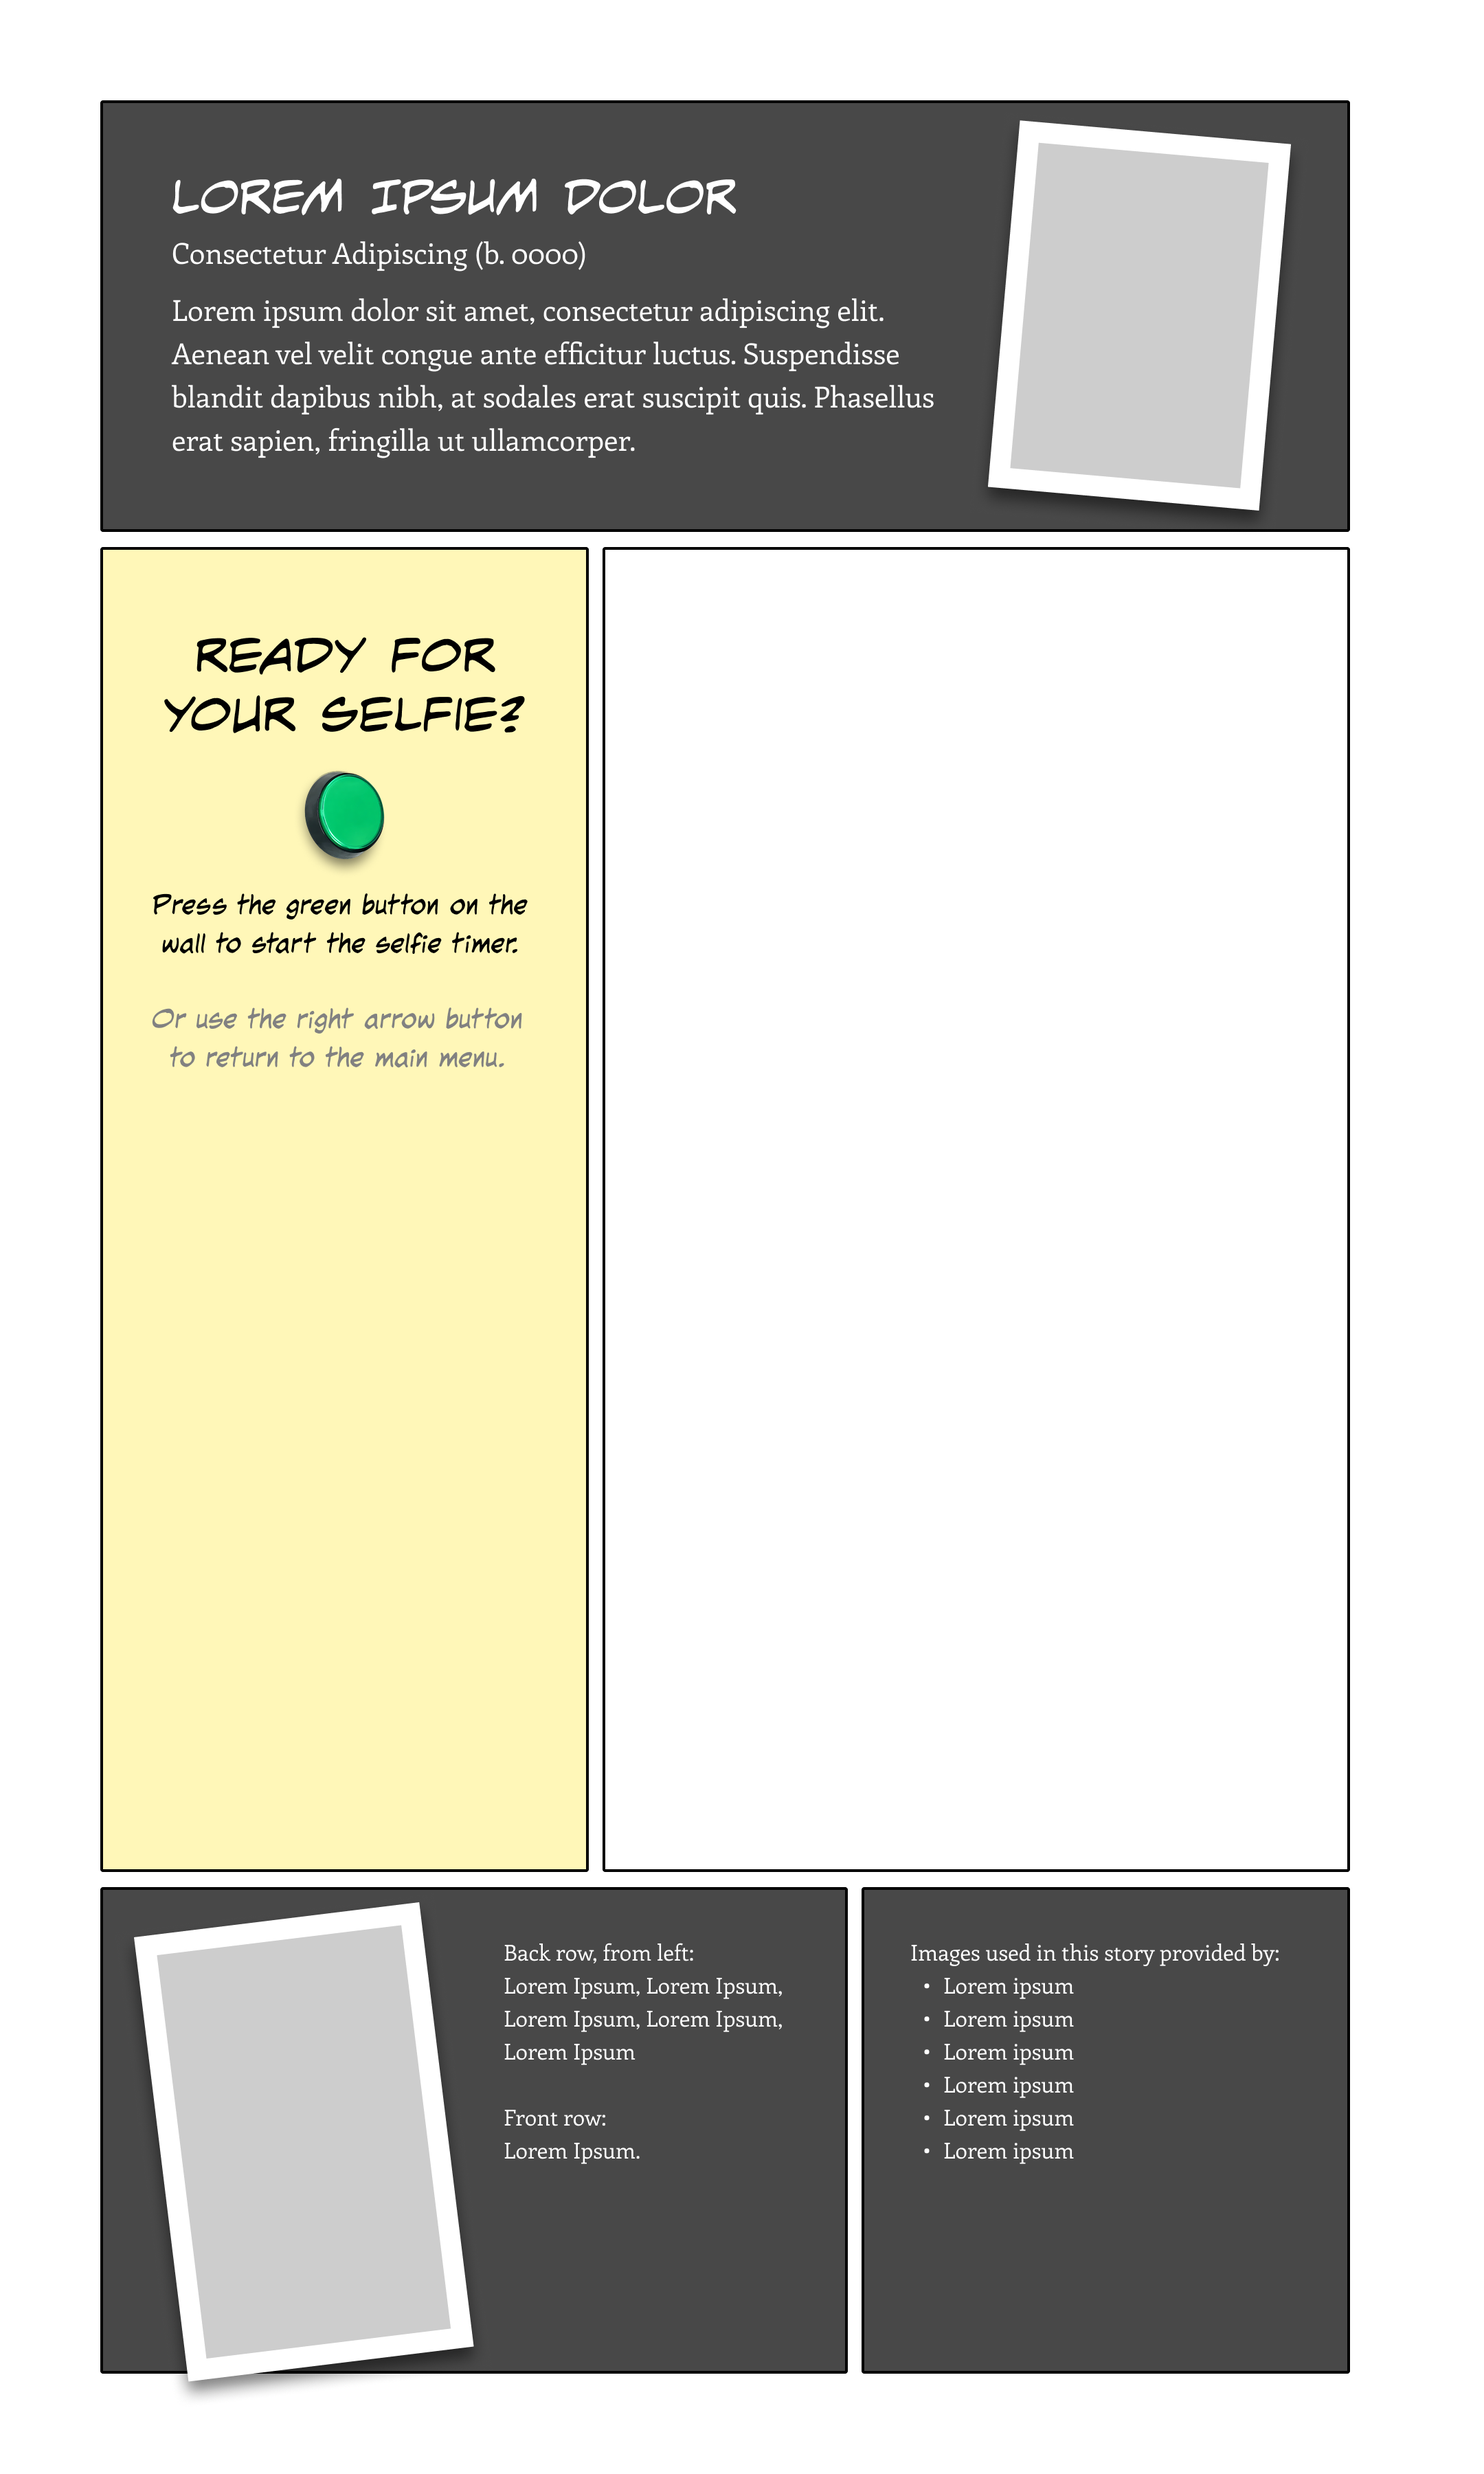
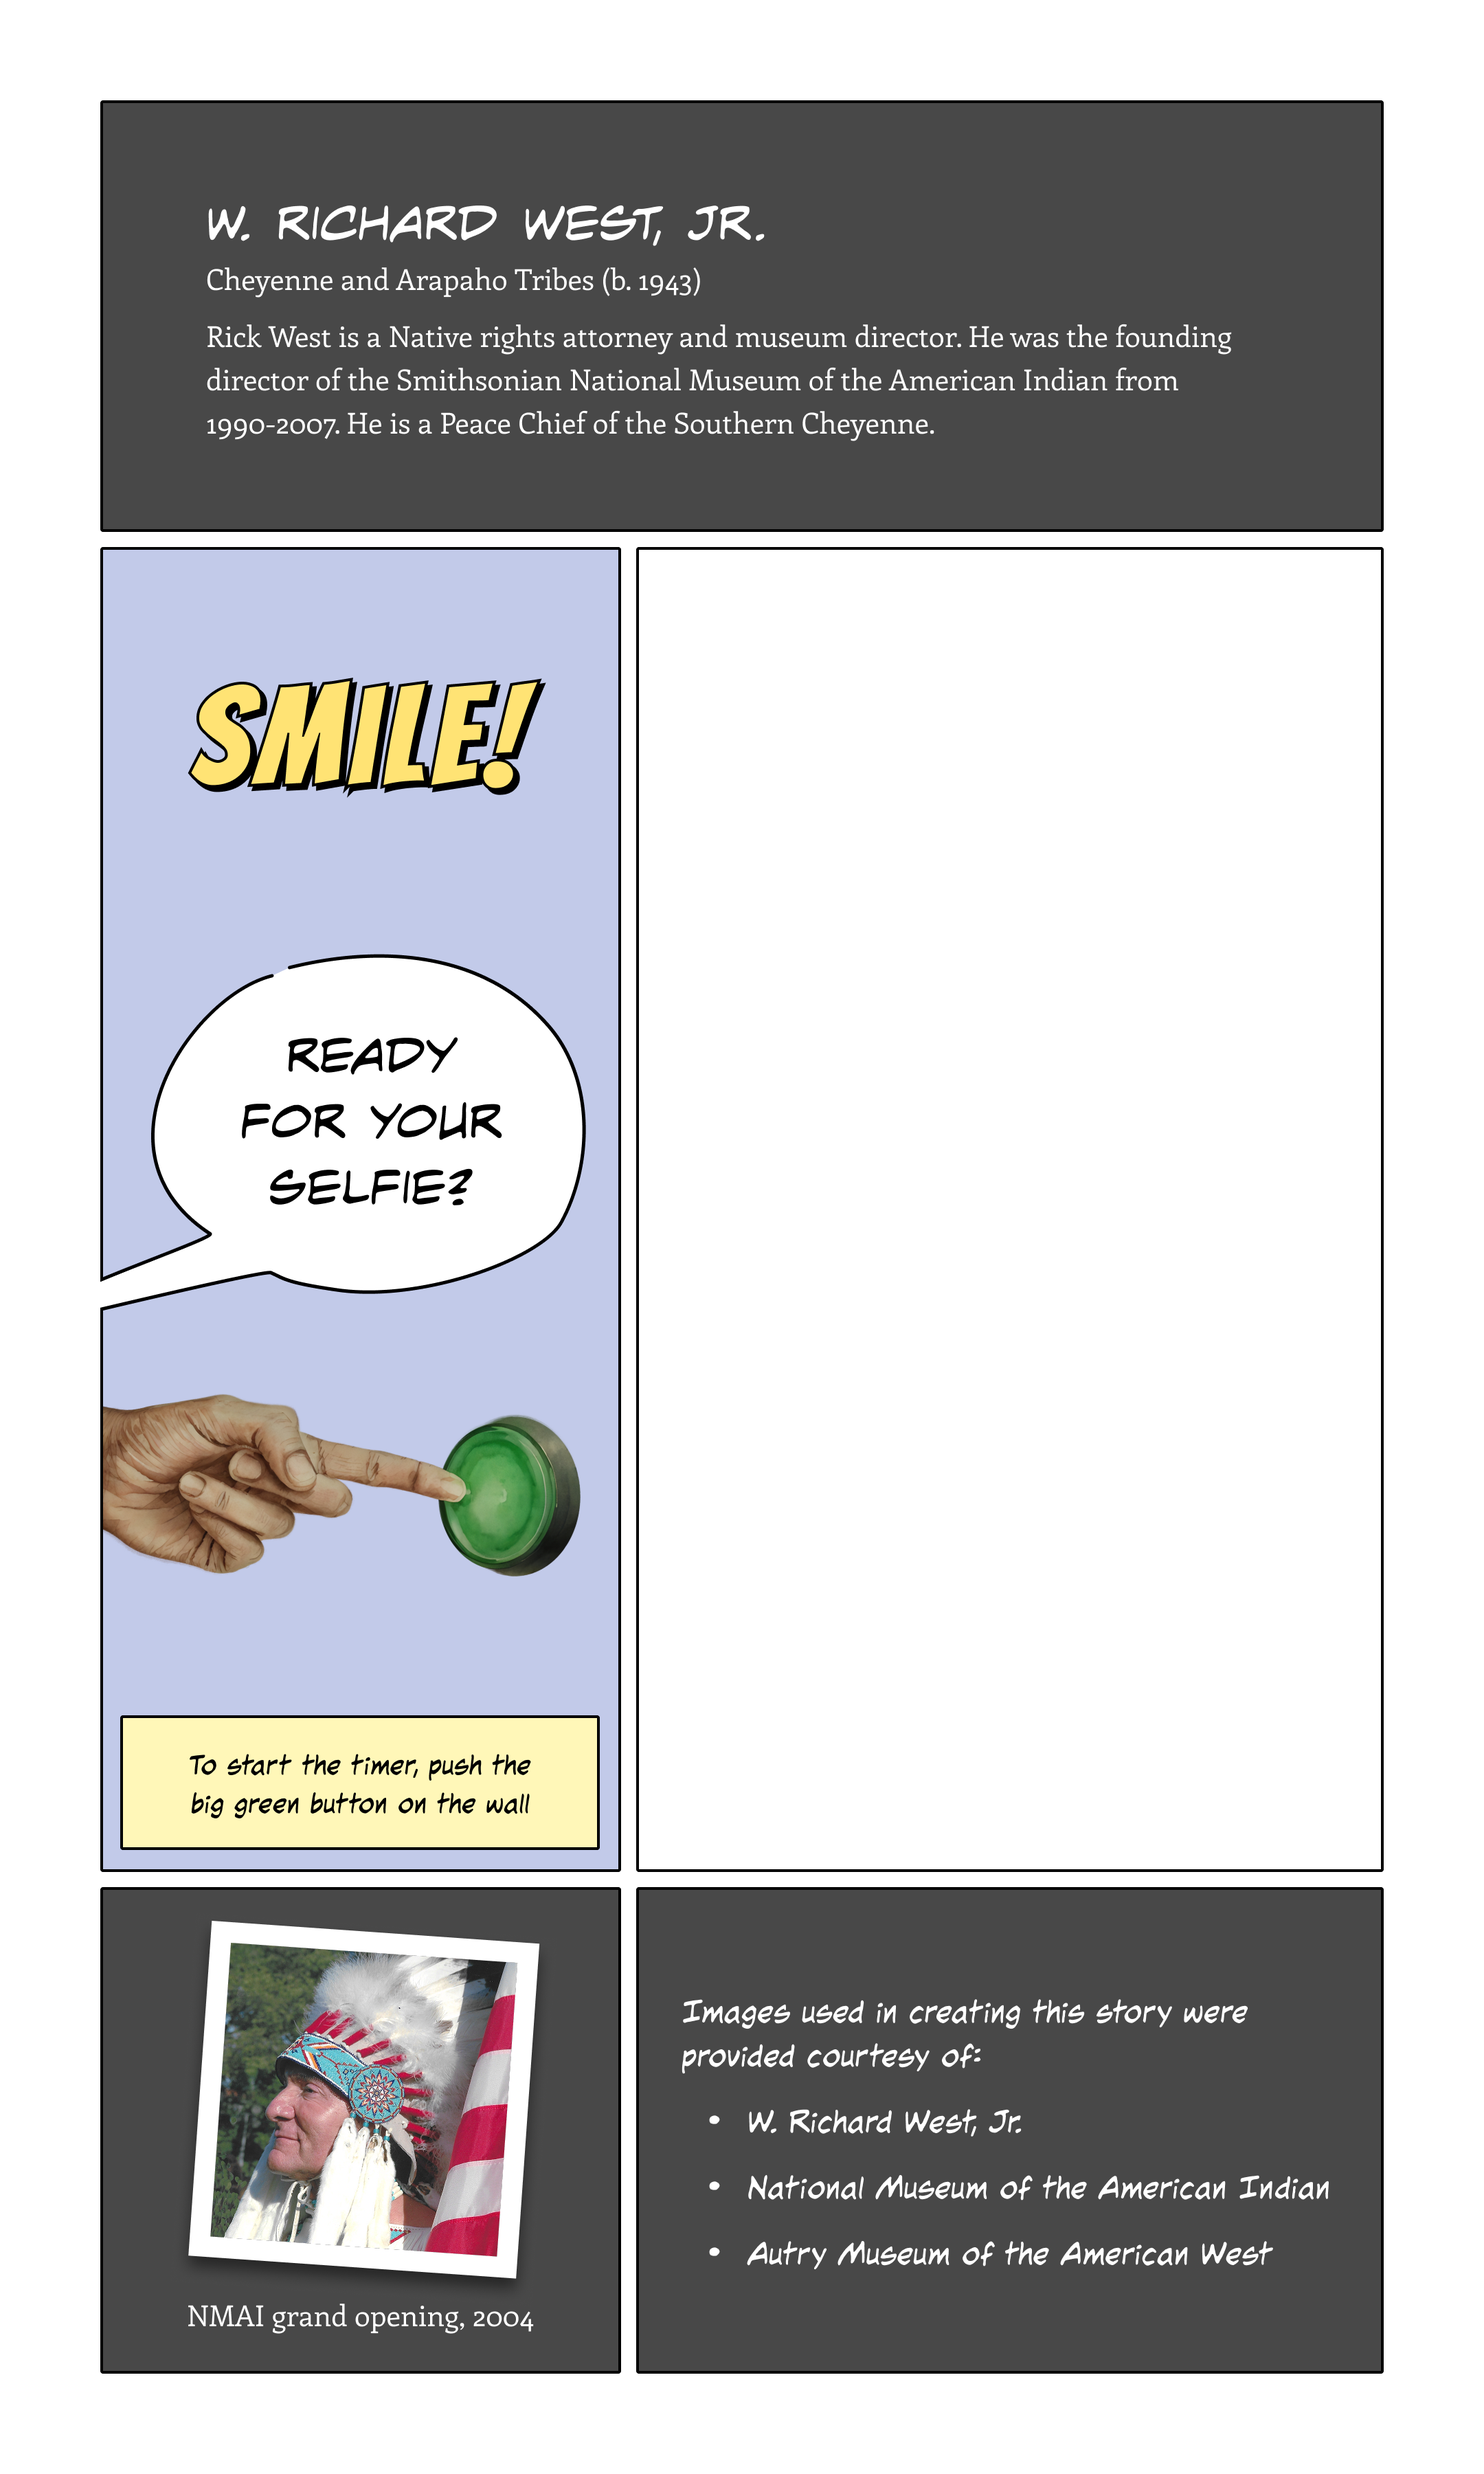
Add Richard West's pages and enable him in carousel

diff --git a/public/js/script.js b/public/js/script.js
@@ -544,7 +544,7 @@ const stateHandlers = {
     left: () => prev(),
     right: () => next(),
     enter: () => {
-      if (figureIndex == 0) {
+      if ([0, 6].includes(figureIndex)) {
         playSFX(coverpageSFX);
         loadPages();
         transitionAppState(
@@ -656,9 +656,7 @@ const stateHandlers = {
       // updatePhotoPreviewScreen();
       // currentAppState = AppState.PHOTO_PREVIEW;
       // sendTTT(LightingScene.PHOTO_PREVIEW);
- 
       // selfieCutout.style.display = "block";
-
       // photoReviewScreen.classList.remove("active");
       // photoPreviewScreen.classList.add("active");
     },
